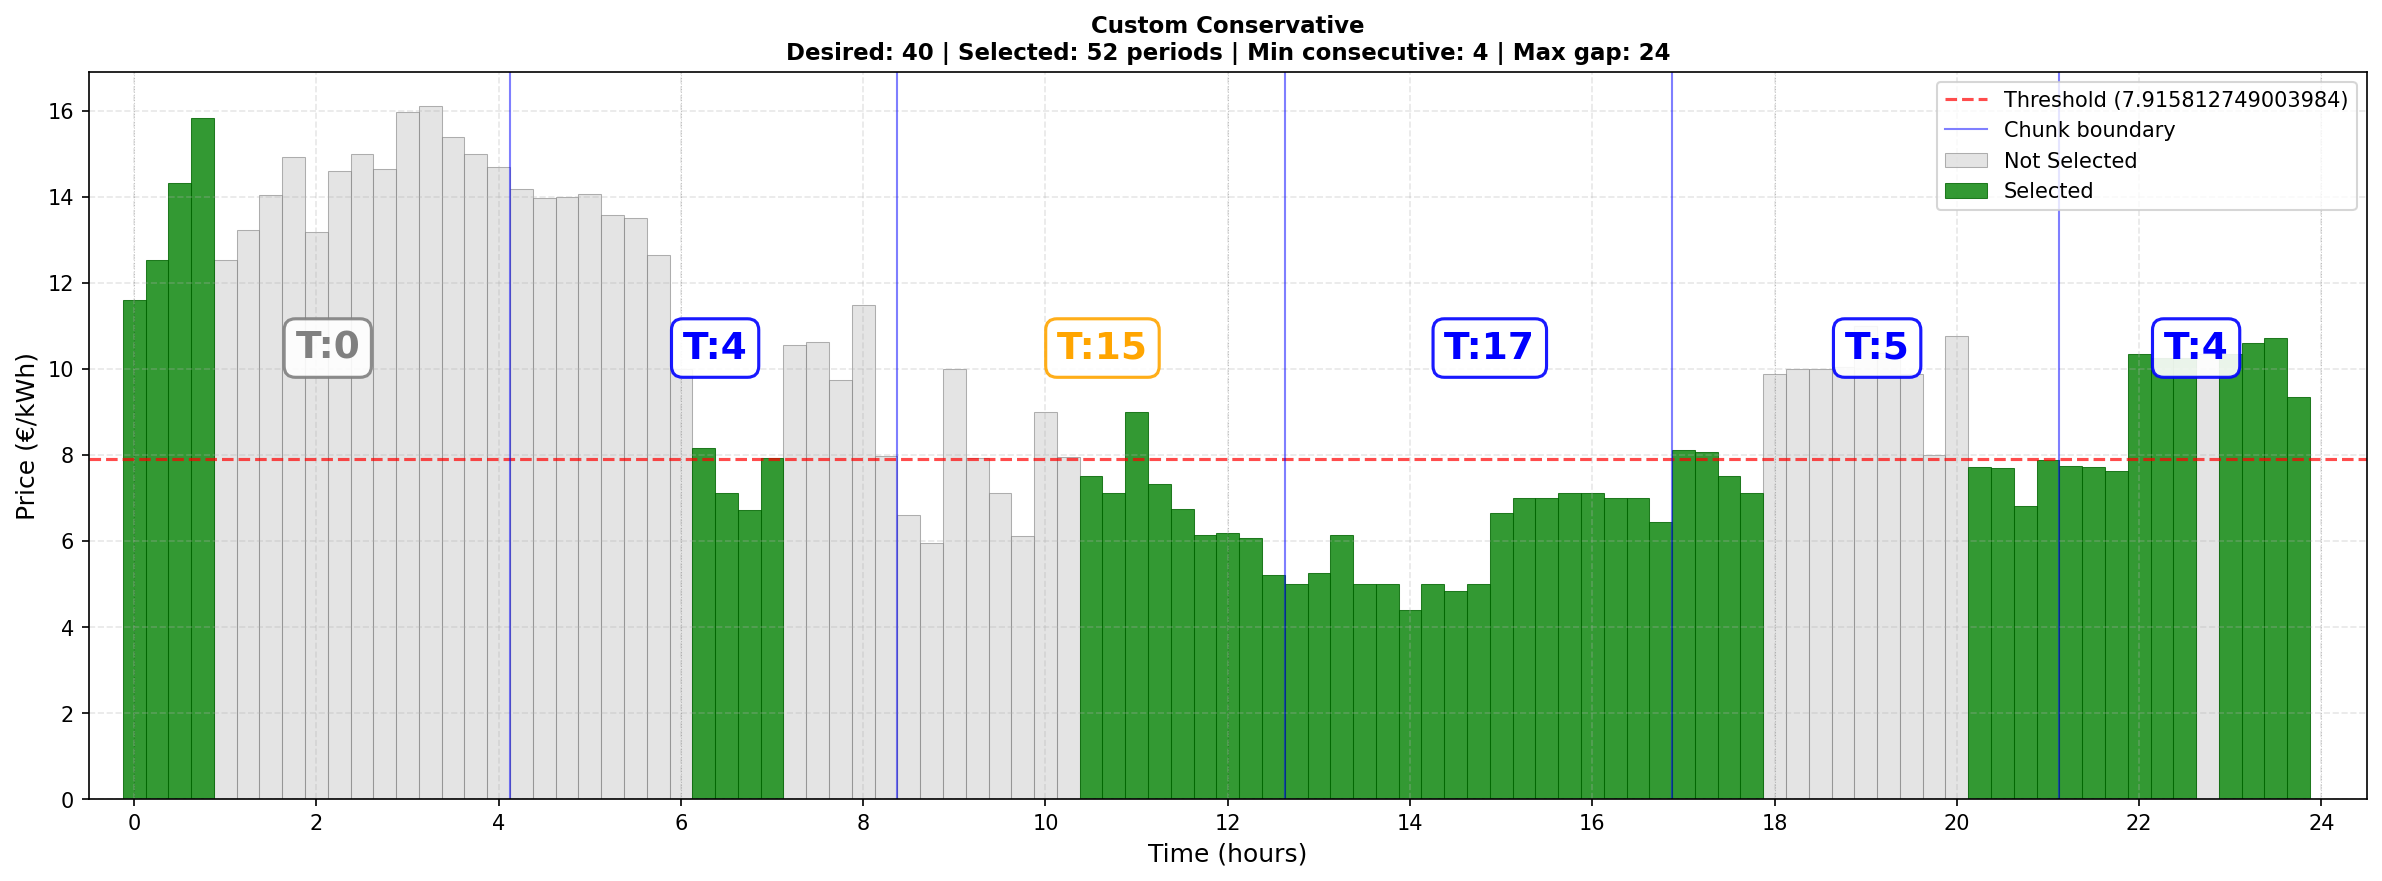
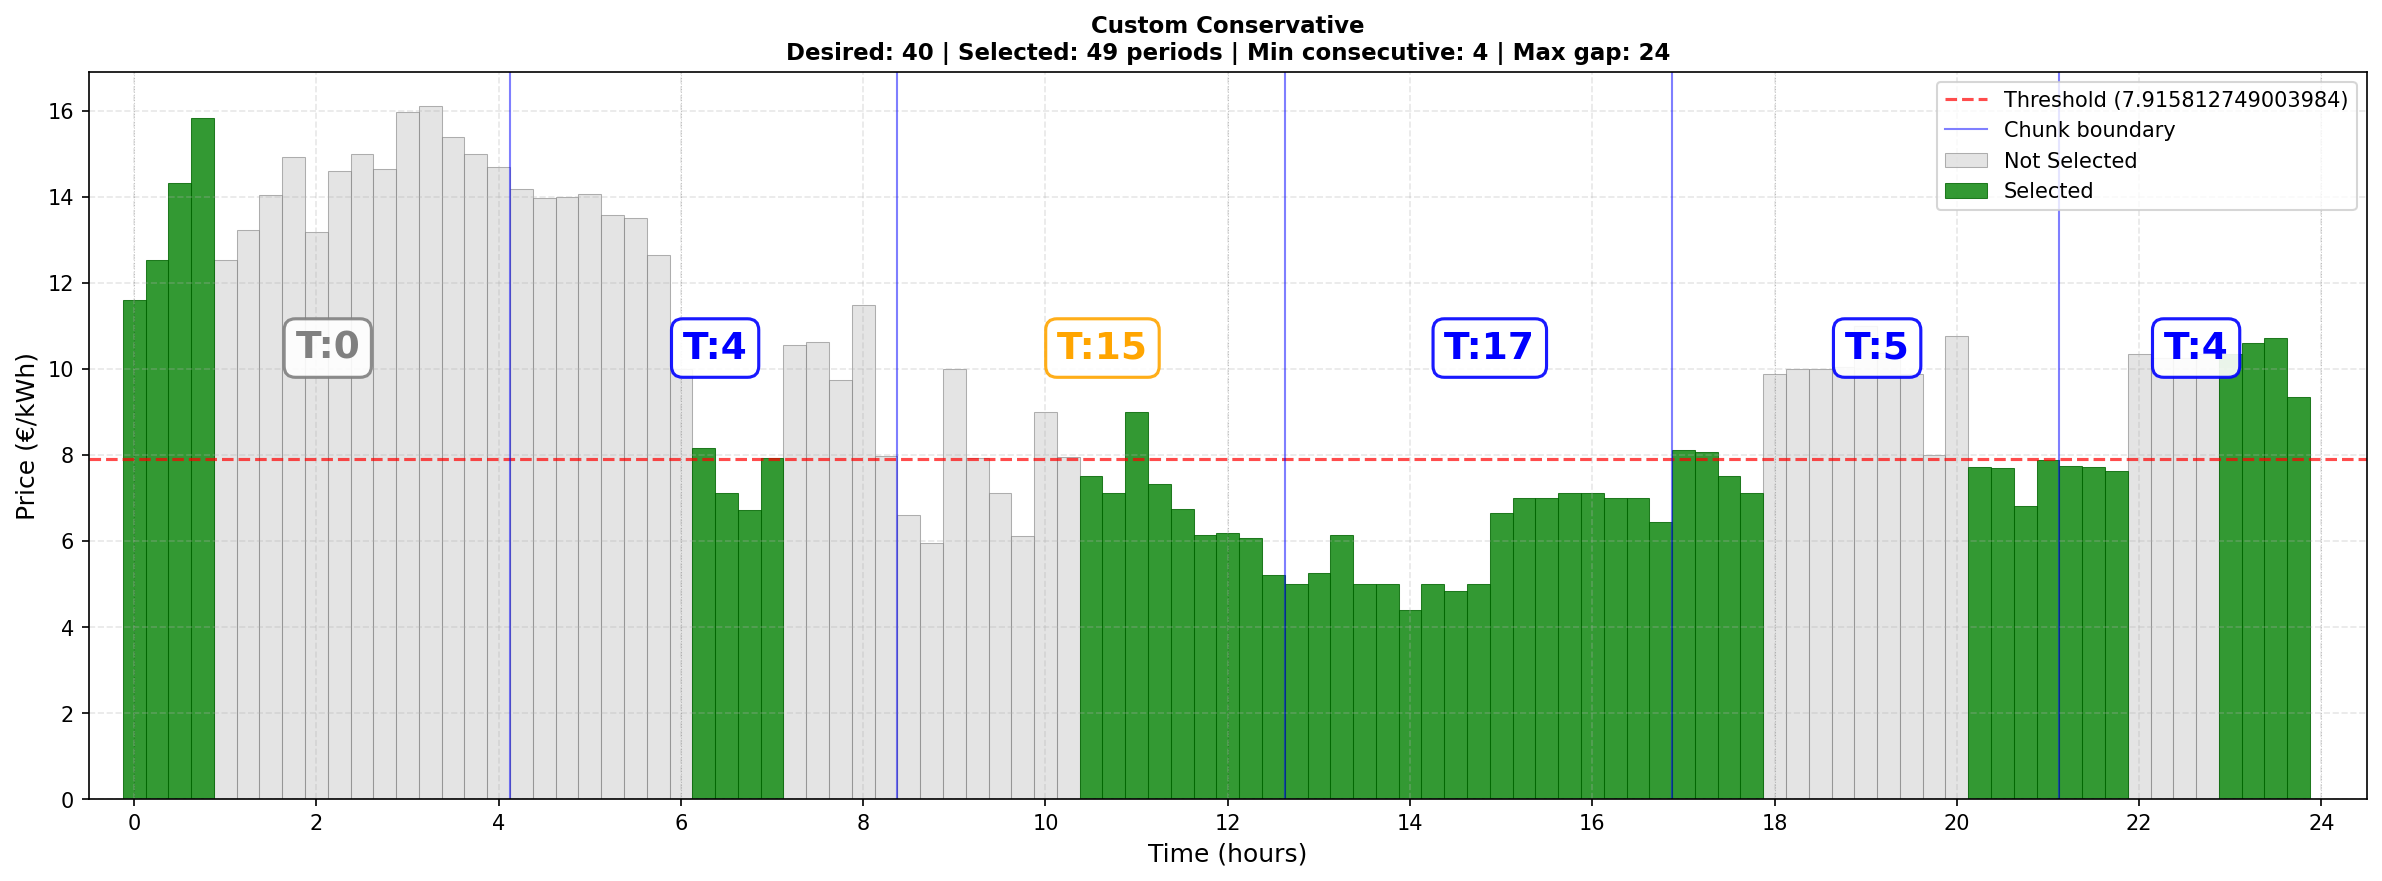
Trim surplus above-threshold run edges as a final pass
Rough planning selects whole 4-item groups and hands them to the chunks
as counts, so a run could be padded with above-threshold items that
neither min_selections nor any gap constraint needed. Nothing later
removed them: _try_add_cheap_items only adds, and
_shift_expensive_run_edges keeps the item count.

Found in production (mlp daemon, 2026-10-07 21:00; 89 prices,
min_selections=26, min_consecutive=2, max_gap=47): the cheap run 0-11 was
extended with the rising prices 12-15 (8.7, 8.1, 10.7, 11.5) and the
bridge over the expensive block was 4 items instead of 2. 34 items were
returned where 28 satisfy every constraint, shortening the pause over the
expensive hours from 9.5 h to 8.5 h.

Add _trim_expensive_run_edges(): while the selection has more than
min_selections items, remove the most expensive above-threshold run edge
whose removal keeps the full selection valid. It never removes a
below-threshold item, so it can only lower cost. It runs after
_try_add_cheap_items and before _shift_expensive_run_edges.

The trim is greedy: when a gap constraint pins one edge of a bridge, it
trims from the other side, which is not always the cheapest window (the
production case keeps 52-53 at 22.75 where 50-51 costs 22.71).

Results against the previous commit:
- Production input: 34 -> 28 items, price sum 200.2 -> 138.4.
- Visualization scenarios: 8 cheaper in both total and average cost
  (custom_test_data 315.06 -> 205.50, custom_minimal_constraints
[…]

Changed region(s): [[0.8699, 0.3984, 0.932, 0.9194]]

diff --git a/tests/test_trim_expensive_run_edges.py b/tests/test_trim_expensive_run_edges.py
@@ -1,0 +1,94 @@
+"""Tests for the final pass that drops surplus above-threshold run edges.
+
+Found in production (mlp daemon, 2026-10-07 21:00): rough planning selected whole
+4-item groups, so the cheap morning run 0-11 was extended with the rising prices
+12-15 and the mid-day bridge was 4 items although min_consecutive_periods was 2.
+34 items were returned where 28 satisfy every constraint, shortening the pause
+over the expensive hours from 9.5 h to 8.5 h.
+"""
+
+from decimal import Decimal
+
+from spot_planner import get_cheapest_periods, two_phase
+
+THRESHOLD = Decimal("0.08")
+
+# fmt: off
+PRICES_2026_10_07 = [
+    4.565, 3.117, 3.431, 3.657, 4.189, 3.136, 3.757, 4.396, 5.008, 4.044, 4.858,
+    5.868, 8.707, 8.142, 10.653, 11.515, 11.733, 12.395, 13.613, 15.312, 15.637,
+    16.215, 16.418, 16.567, 16.526, 18.758, 18.425, 18.149, 17.254, 17.878,
+    16.624, 16.086, 15.428, 16.107, 14.822, 13.995, 13.291, 13.862, 13.536,
+    12.961, 12.682, 12.296, 12.191, 12.122, 12.129, 12.129, 12.123, 12.028,
+    11.77, 11.393, 11.367, 11.34, 11.519, 11.231, 11.909, 12.116, 13.692, 12.827,
+    12.118, 13.534, 16.128, 14.392, 11.358, 13.0, 12.05, 13.0, 12.094, 12.101,
+    10.804, 10.72, 10.027, 9.094, 8.573, 9.23, 8.43, 7.637, 7.022, 7.363, 7.343,
+    6.478, 4.999, 4.999, 3.303, 3.0, 2.636, 3.0, 2.72, 2.626, 2.53,
+]
+# fmt: on
+
+
+def _d(values: list[str]) -> list[Decimal]:
+    return [Decimal(v) for v in values]
+
+
+def test_surplus_expensive_edge_removed():
+    prices = _d(["0.05"] * 4 + ["0.20", "0.30"] + ["0.50"] * 4)
+    selected = [0, 1, 2, 3, 4, 5]
+
+    result = two_phase._trim_expensive_run_edges(selected, prices, THRESHOLD, 4, 2, 8, 0)
+
+    assert result == [0, 1, 2, 3]
+
+
+def test_trim_stops_at_min_selections():
+    prices = _d(["0.05"] * 4 + ["0.20", "0.30"] + ["0.50"] * 4)
+    selected = [0, 1, 2, 3, 4, 5]
+
+    result = two_phase._trim_expensive_run_edges(selected, prices, THRESHOLD, 5, 2, 8, 0)
+
+    assert result == [0, 1, 2, 3, 4]
+
+
+def test_cheap_edge_never_removed():
+    prices = _d(["0.05"] * 6 + ["0.50"] * 4)
+    selected = [0, 1, 2, 3, 4, 5]
+
+    result = two_phase._trim_expensive_run_edges(selected, prices, THRESHOLD, 2, 2, 8, 0)
+
+    assert result == selected
+
+
+def test_trim_that_breaks_constraints_rejected():
+    # Run 6-7 is the bridge that keeps both gaps within max_gap=4, and it is
+    # already at min_consecutive_periods=2: nothing may be removed.
+    prices = _d(["0.05"] * 2 + ["0.50"] * 4 + ["0.20", "0.20"] + ["0.50"] * 4 + ["0.05"] * 2)
+    selected = [0, 1, 6, 7, 12, 13]
+
+    result = two_phase._trim_expensive_run_edges(selected, prices, THRESHOLD, 4, 2, 4, 0)
+
+    assert result == selected
+
+
+def test_invalid_selection_returned_unchanged():
+    prices = _d(["0.20", "0.03", "0.30"])
+    selected = [1, 2]  # run shorter than min_consecutive_periods=4
+
+    assert two_phase._trim_expensive_run_edges(selected, prices, THRESHOLD, 1, 4, 2, 2) == selected
+
+
+def test_production_2026_10_07_no_heating_on_rising_prices():
+    prices = [Decimal(str(p)) for p in PRICES_2026_10_07]
+    threshold = Decimal("7.637")
+
+    result = get_cheapest_periods(prices, threshold, 26, 2, 47, 47)
+
+    assert two_phase._validate_full_selection(result, len(prices), 2, 47, 47)
+    cheap = [i for i, p in enumerate(prices) if p <= threshold]
+    assert set(cheap) <= set(result)
+    # The 63-item expensive block 12-74 exceeds max_gap=47, so exactly one
+    # minimum-length bridge is needed in it and nothing else.
+    expensive = [i for i in result if prices[i] > threshold]
+    assert len(expensive) == 2
+    assert expensive[1] == expensive[0] + 1
+    assert len(result) == 28

diff --git a/src/spot_planner/two_phase.py b/src/spot_planner/two_phase.py
@@ -252,6 +252,61 @@ def _shift_expensive_run_edges(
         result = sorted((set(result) - {removed}) | {added})
 
 
+def _trim_expensive_run_edges(
+    selected_indices: list[int],
+    prices: Sequence[Decimal],
+    low_price_threshold: Decimal,
+    min_selections: int,
+    min_consecutive_periods: int,
+    max_gap_between_periods: int,
+    max_gap_from_start: int,
+) -> list[int]:
+    """Drop surplus above-threshold items from the edges of runs.
+
+    Rough planning selects whole 4-item groups and passes them to the chunks as
+    counts, so a run can end up padded with above-threshold items that neither
+    min_selections nor any gap constraint needs (e.g. a cheap run extended into
+    a rising price ramp, or a 4-item bridge where min_consecutive_periods is 2).
+    Removes the most expensive such edge item, one at a time, while the
+    selection stays valid and keeps at least min_selections items. Never removes
+    a below-threshold item; an invalid input selection is returned unchanged.
+    """
+    n = len(prices)
+    result = sorted(selected_indices)
+    if not _validate_full_selection(
+        result, n, min_consecutive_periods, max_gap_between_periods, max_gap_from_start
+    ):
+        return result
+
+    while len(result) > min_selections:
+        selected = set(result)
+        edges = sorted(
+            (
+                i
+                for i in result
+                if prices[i] > low_price_threshold
+                and (i - 1 not in selected or i + 1 not in selected)
+            ),
+            key=lambda i: prices[i],
+            reverse=True,
+        )
+        for edge in edges:
+            candidate = [i for i in result if i != edge]
+            if _validate_full_selection(
+                candidate,
+                n,
+                min_consecutive_periods,
+                max_gap_between_periods,
+                max_gap_from_start,
+            ):
+                result = candidate
+                break
+        else:
+            return result
+
+    return result
+
+
 def _calculate_chunk_boundary_state(
     chunk_selected: list[int], chunk_length: int
 ) -> ChunkBoundaryState:

diff --git a/src/spot_planner/main.py b/src/spot_planner/main.py
@@ -122,7 +122,11 @@ def get_cheapest_periods(
             result, prices, low_price_threshold,
             min_consecutive_periods, max_gap_between_periods, max_gap_from_start,
         )
-        # Last step, so the cheap items added above are never traded away.
+        # Last steps, so the cheap items added above are never traded away.
+        result = two_phase._trim_expensive_run_edges(
+            result, prices, low_price_threshold, min_selections,
+            min_consecutive_periods, max_gap_between_periods, max_gap_from_start,
+        )
         return two_phase._shift_expensive_run_edges(
             result, prices, low_price_threshold,
             min_consecutive_periods, max_gap_between_periods, max_gap_from_start,
